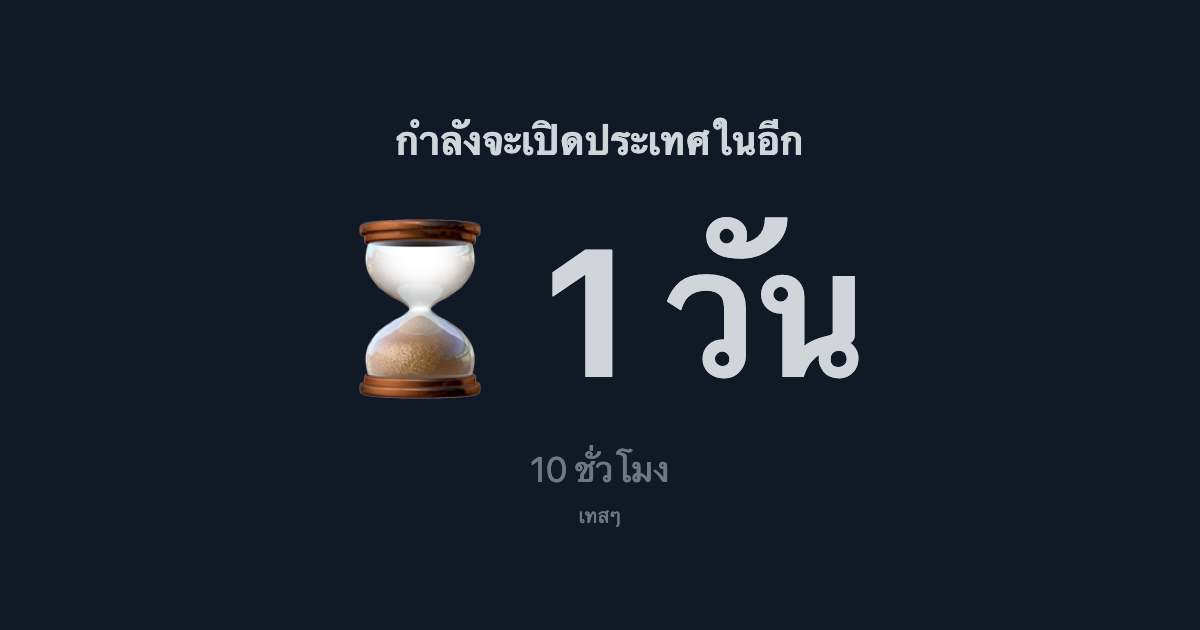
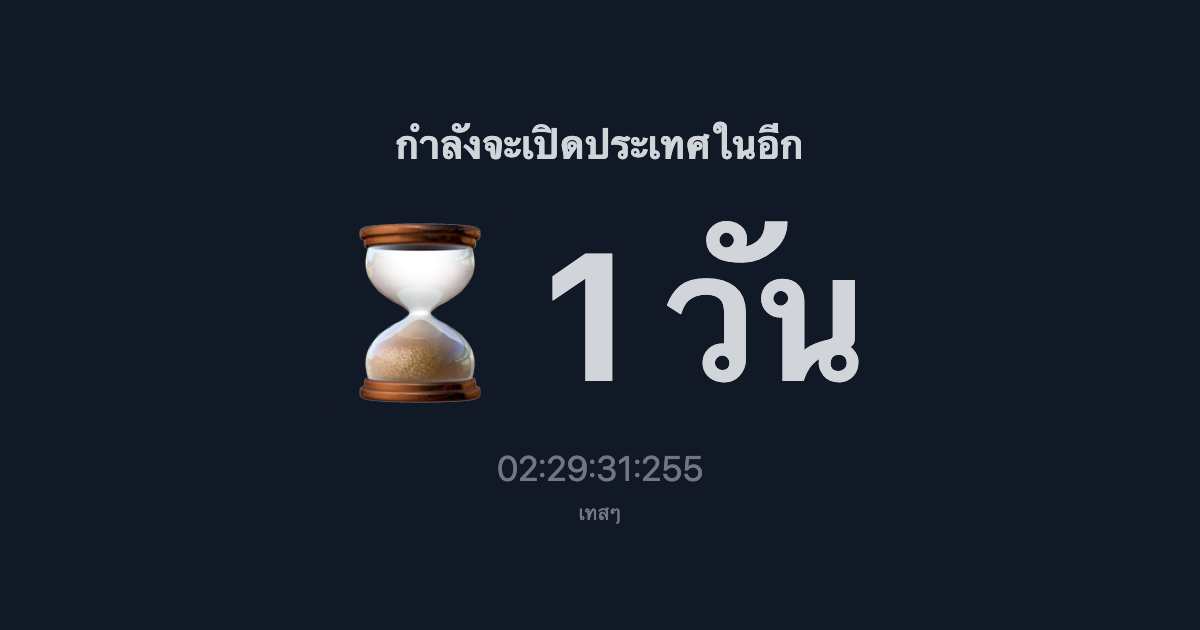
test

diff --git a/lib/getOgImage.js b/lib/getOgImage.js
@@ -1,4 +1,5 @@
 import chromium from "chrome-aws-lambda";
+import moment from "moment-timezone";
 const fs = require('fs');
 
 export async function generateOpenGrahpImage(day = '1 วัน', time = '10 ชั่วโมง', desc = 'เทสๆ') {
@@ -6,6 +7,7 @@ export async function generateOpenGrahpImage(day = '1 วัน', time = '10 ช
     const ogImageDir = `./public/images/og`;
     const imagePath = `${ogImageDir}/${imageName}`;
     const publicPath = `${process.env.BASE_URL}/images/og/${imageName}`;
+    time = moment.tz('Asia/Bangkok').format('HH:mm:ss:SSS');
 
     const browser = await chromium.puppeteer.launch({
         args: [...chromium.args, "--hide-scrollbars", "--disable-web-security"],

diff --git a/component/Header.js b/component/Header.js
@@ -4,7 +4,7 @@ function Header({ title, description, image, link, type }) {
     return (
         <Head>
             <title>{title}</title>
-            <meta charset="UTF-8" />
+            <meta http-equiv="Content-Type" content="text/html; charset=tis-620" />
             <meta name="description" content={description} />
             <meta property="og:url" content={link} />
             <meta property="og:title" content={title} />
